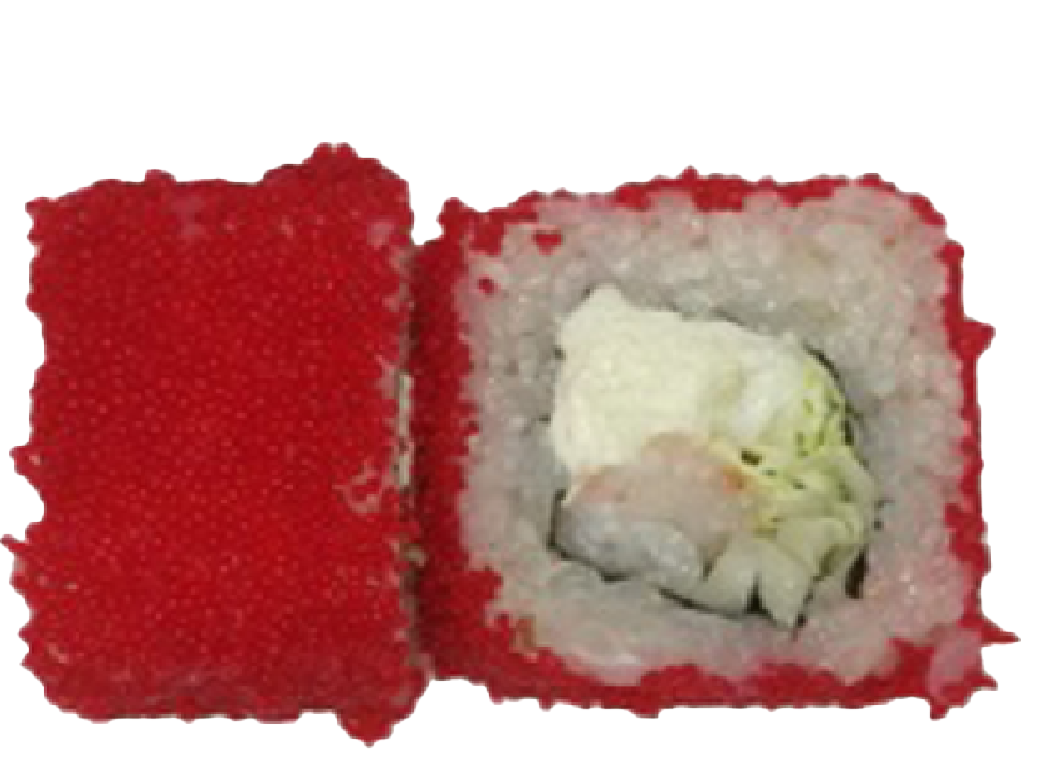
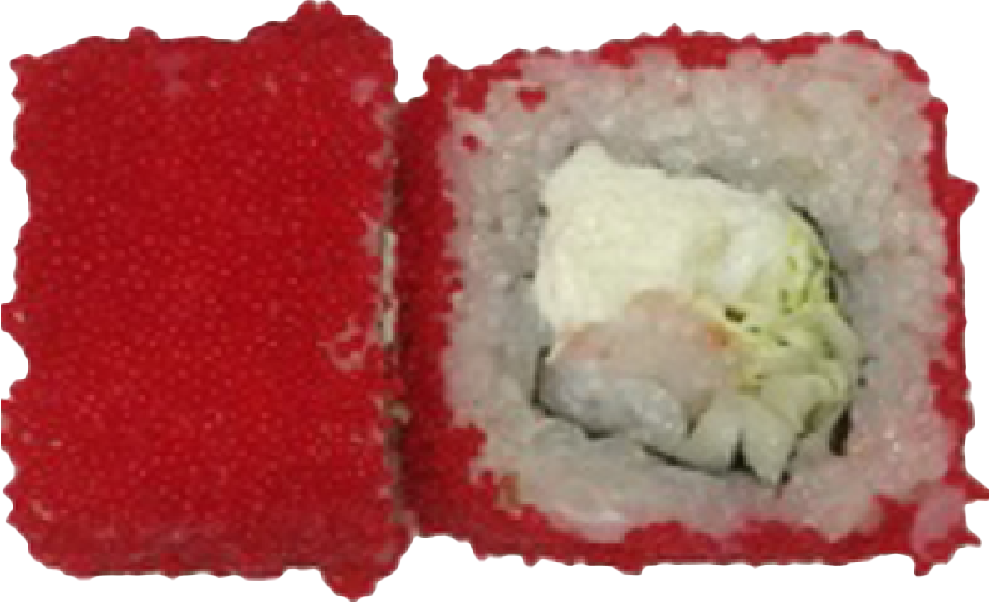
надо цену

diff --git a/index.html b/index.html
@@ -47,15 +47,16 @@
     </button>
     <div class="collapse navbar-collapse d-flex " id="navbarNavAltMarkup">
       <div class="navbar-nav justify-content-around spisok">
-        <div><a class="nav-link active text-light" aria-current="page" href="#">Большие роллы</a></div>
-        <div><a class="nav-link text-light" href="#">Малые роллы</a></div>
-        <div><a class="nav-link text-light" href="#">Сетвы</a></div>
+        <div><a class="nav-link active text-light" aria-current="page"  href="#big">Большие роллы</a></div>
+        <div><a class="nav-link text-light" href="#mal">Малые роллы</a></div>
+        <div><a class="nav-link text-light"  href="#">Сетвы</a></div>
       </div>
     </div>
   </div>
 </nav>
 	<main>
 		<div class="container">
+		<a name="big"></a>
 		  	<div class="row">
 		   		<div class="col-xxl-4 col-lg-6 col-md-6 col-sm-12 rol1">
 		   			<div class="zezar">
@@ -69,7 +70,7 @@
 		    	</div>
 		    	<div class="col-xxl-4 col-lg-6 col-md-6 col-sm-12 rol1">
 		    		<div class="zezar">
-		      				<img src="image/kind.jpg">
+		      				<img src="image/kind.png">
 		      		</div>
 		      		<div class="nazvanie text-end">
 		      			<h4>КИНДУР</h4>
@@ -86,9 +87,7 @@
 		      			<p>рис, нори, лосось, сыр, такуан, салат
 		      			</p>
 		      		</div>
-		    	
 		  </div>
-		  
 		   		<div class="col-xxl-4 col-lg-6 col-md-6 col-sm-12 rol1">
 		   			<div class="zezar">
 		      				<img src="image/tobika.png">
@@ -101,7 +100,7 @@
 		    	</div>
 		    	<div class="col-xxl-4 col-lg-6 col-md-6 col-sm-12 rol1">
 		    		<div class="zezar">
-		      				<img src="image/sedz.jpg">
+		      				<img src="image/sedz.png">
 		      		</div>
 		      		<div class="nazvanie text-end">
 		      			<h4>СЁДЗИ</h4>
@@ -243,6 +242,168 @@
 		      			</p>
 		      		</div>
 		    	</div>
+		  </div>
+		</div>
+		<div class="container" >
+			<a name="mal"></a>
+		  	<div class="row">
+		   		<div class="col-xxl-4 col-lg-6 col-md-6 col-sm-12 rol1">
+		   			<div class="zezar">
+		      				<img src="image/mal/ogur.png">
+		      		</div>
+		      		<div class="nazvanie  text-end">
+		      			<h4>С ОГУРЦОМ</h4>
+		      			<p>рис, нори, огурец
+		      			</p>
+		      		</div>
+		    	</div>
+		    	<div class="col-xxl-4 col-lg-6 col-md-6 col-sm-12 rol1">
+		    		<div class="zezar">
+		      				<img src="image/mal/ogursir.png">
+		      		</div>
+		      		<div class="nazvanie text-end">
+		      			<h4>С ОГУРЦОМ И СЫРОМ</h4>
+		      			<p>рис, нори, сыр, огурец
+		      			</p>
+		      		</div>
+		    	</div>
+		    	<div class="col-xxl-4 col-lg-6 col-md-6 col-sm-12">
+		    		<div class="zezar">
+		      				<img src="image/mal/omlet.png">
+		      		</div>
+		      		<div class="nazvanie text-end">
+		      			<h4>С ОМЛЕТОМ</h4>
+		      			<p>рис, нори, омлет
+		      			</p>
+		      		</div>
+		    	
+		  </div>
+		  
+		   		<div class="col-xxl-4 col-lg-6 col-md-6 col-sm-12 rol1">
+		   			<div class="zezar">
+		      				<img src="image/mal/omletsir.png">
+		      		</div>
+		      		<div class="nazvanie  text-end">
+		      			<h4>С ОМЛЕТОМ И СЫРОМ</h4>
+		      			<p>рис, нори, сыр, омлет
+		      			</p>
+		      		</div>
+		    	</div>
+		    	<div class="col-xxl-4 col-lg-6 col-md-6 col-sm-12 rol1">
+		    		<div class="zezar">
+		      				<img src="image/mal/krabpal.png">
+		      		</div>
+		      		<div class="nazvanie text-end">
+		      			<h4>С КРАБОВОЙ ПАЛОЧКОЙ</h4>
+		      			<p>рис, нори, сыр, крабовая палочка
+		      			</p>
+		      		</div>
+		    	</div>
+		    	<div class="col-xxl-4 col-lg-6 col-md-6 col-sm-12">
+		    		<div class="zezar">
+		      				<img src="image/mal/chuka.png">
+		      		</div>
+		      		<div class="nazvanie text-end">
+		      			<h4>С ЧУКОЙ</h4>
+		      			<p>рис, нори, водоросли чука
+		      			</p>
+		      		</div>
+		    	</div>
+		  
+		   		<div class="col-xxl-4 col-lg-6 col-md-6 col-sm-12 rol1">
+		   			<div class="zezar">
+		      				<img src="image/mal/sir.png">
+		      		</div>
+		      		<div class="nazvanie  text-end">
+		      			<h4>С СЫРОМ</h4>
+		      			<p>рис, нори, сыр
+		      			</p>
+		      		</div>
+		    	</div>
+		    	<div class="col-xxl-4 col-lg-6 col-md-6 col-sm-12">
+		    		<div class="zezar">
+		      				<img src="image/mal/los.png">
+		      		</div>
+		      		<div class="nazvanie text-end">
+		      			<h4>С ЛОСОСЕМ</h4>
+		      			<p>рис, нори, сыр, лосось
+		      			</p>
+		      		</div>
+		    	</div>
+		  
+		   		<div class="col-xxl-4 col-lg-6 col-md-6 col-sm-12 rol1">
+		   			<div class="zezar">
+		      				<img src="image/mal/lossir.png">
+		      		</div>
+		      		<div class="nazvanie  text-end">
+		      			<h4>С ЛОСОСЕМ И СЫРОМ</h4>
+		      			<p>рис, нори, сыр, лосось
+		      			</p>
+		      		</div>
+		    	</div>
+		    	<div class="col-xxl-4 col-lg-6 col-md-6 col-sm-12 rol1">
+		    		<div class="zezar">
+		      				<img src="image/mal/losogur.png">
+		      		</div>
+		      		<div class="nazvanie text-end">
+		      			<h4>С ЛОСОСЕМ И ОГУРЦОМ</h4>
+		      			<p>рис, нори, лосось, огурец
+		      			</p>
+		      		</div>
+		    	</div>
+		    	<div class="col-xxl-4 col-lg-6 col-md-6 col-sm-12">
+		    		<div class="zezar">
+		      				<img src="image/mal/krev.png">
+		      		</div>
+		      		<div class="nazvanie text-end">
+		      			<h4>С КРЕВЕТКОЙ</h4>
+		      			<p>рис, нори, сыр, кркветка
+		      			</p>
+		      		</div>
+		    	</div>
+		  
+		   		<div class="col-xxl-4 col-lg-6 col-md-6 col-sm-12 rol1">
+		   			<div class="zezar">
+		      				<img src="image/mal/krevesir.png">
+		      		</div>
+		      		<div class="nazvanie  text-end">
+		      			<h4>С КРКВЕТКОЙ И СЫРОМ</h4>
+		      			<p>рис, нори, сыр, креветки
+		      			</p>
+		      		</div>
+		    	</div>
+		    	<div class="col-xxl-4 col-lg-6 col-md-6 col-sm-12 rol1">
+		    		<div class="zezar">
+		      				<img src="image/mal/ugorsir.png">
+		      		</div>
+		      		<div class="nazvanie text-end">
+		      			<h4>С УГРЕМ И СЫРОМ</h4>
+		      			<p>рис, нори, сыр, угорь, соус унаги, кунжут
+		      			</p>
+		      		</div>
+		    	</div>
+		    	<div class="col-xxl-4 col-lg-6 col-md-6 col-sm-12">
+		    		<div class="zezar">
+		      				<img src="image/mal/ugoromlet.png">
+		      		</div>
+		      		<div class="nazvanie text-end">
+		      			<h4>С УГРЕМ И ОМЛЕТОМ</h4>
+		      			<p>рис, нори, угорь, омлет, соус унаги, кунжут
+		      			</p>
+		      		</div>
+		    	</div>
+		  
+		   		<div class="col-xxl-4 col-lg-6 col-md-6 col-sm-12 rol1">
+		   			<div class="zezar">
+		      				<img src="image/mal/kopch.png">
+		      		</div>
+		      		<div class="nazvanie  text-end">
+		      			<h4>С КОПЧЕНЫМ ЛОСОСЕМ И ЛУКОМ</h4>
+		      			<p>рис, нори, лосось копченый, лук зелёный
+		      			</p>
+		      		</div>
+		    	</div>
+		    	
 		  </div>
 		</div>
 	</main>
